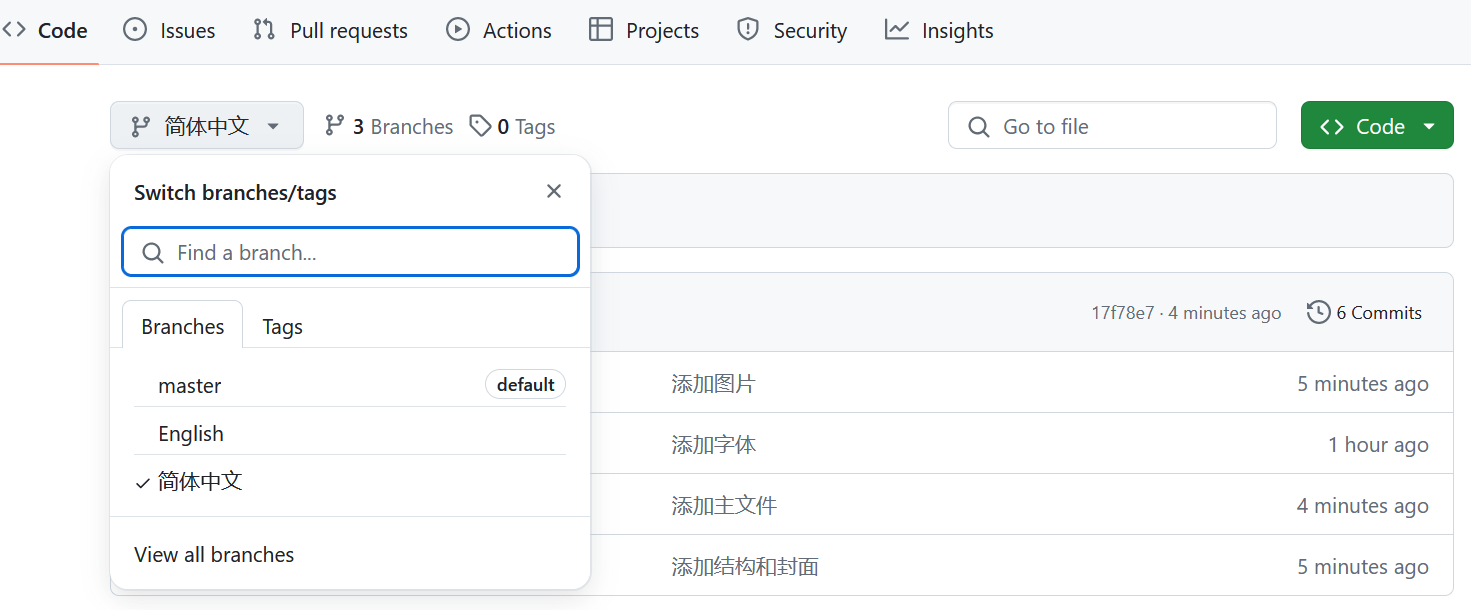
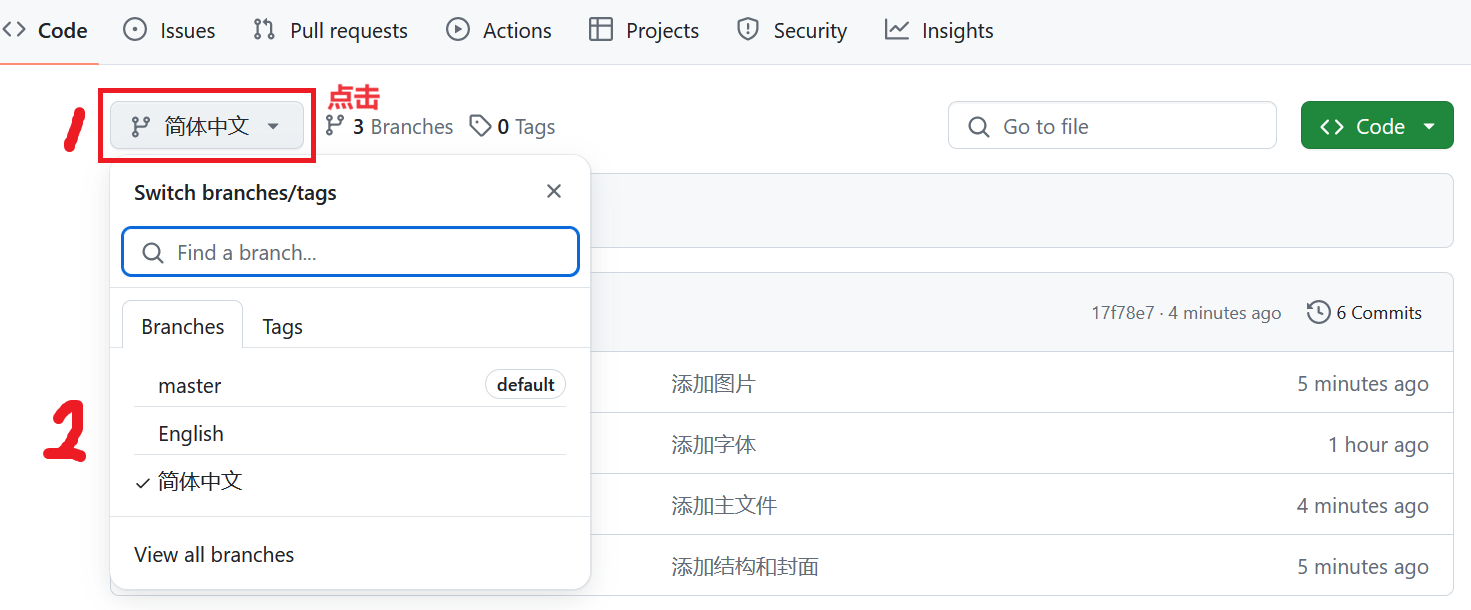
添加说明

Changed region(s): [[0.0306, 0.1246, 0.2753, 0.2803], [0.0306, 0.6541, 0.0612, 0.7787]]

diff --git a/README.md b/README.md
@@ -1,4 +1,14 @@
 # 吉林大学 Beamer
 
+## 下载
+首先根据自己的需求选择不同的模板
+
 ![选择不同的模板](pic/选择不同版本.png)
 
+## 使用
+使用```latexmk```编译
+```bash
+latexmk -f main.tex
+```
+
+> [关于Latex Live和Latexmk的配置](https://github.com/IammyselfYBX/.dotfile?tab=readme-ov-file#latex)
